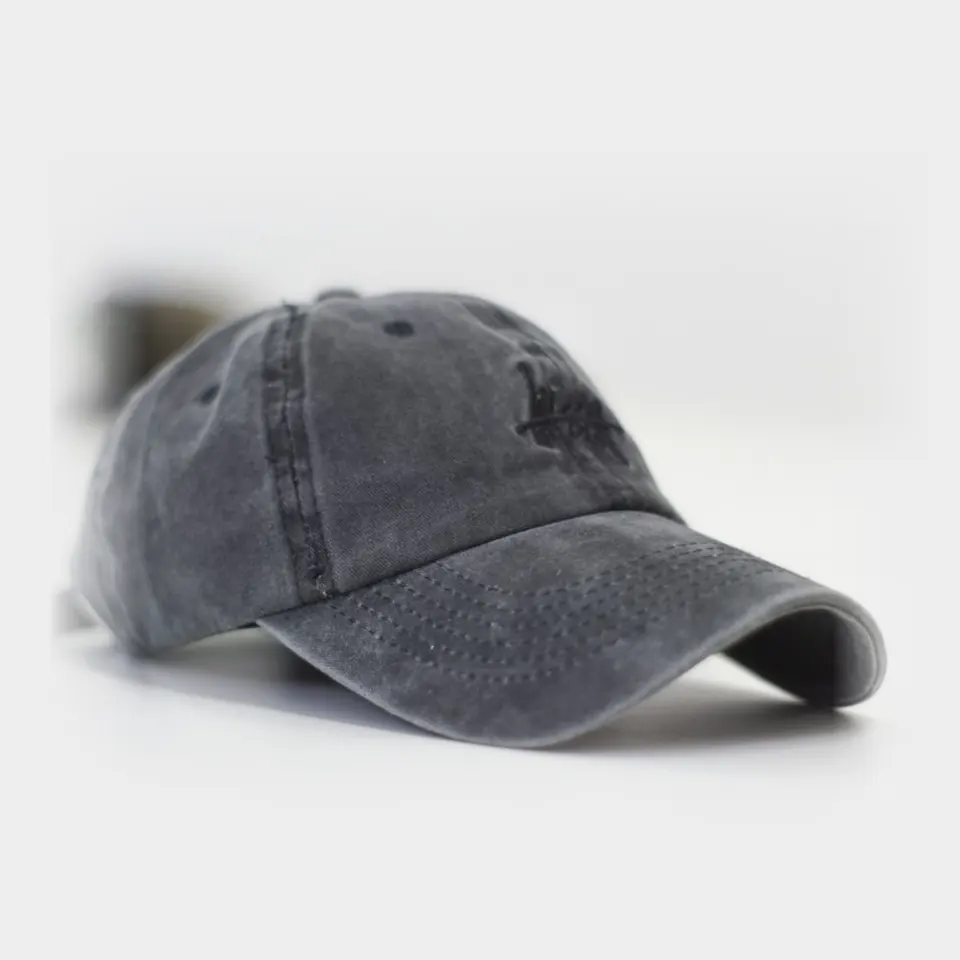
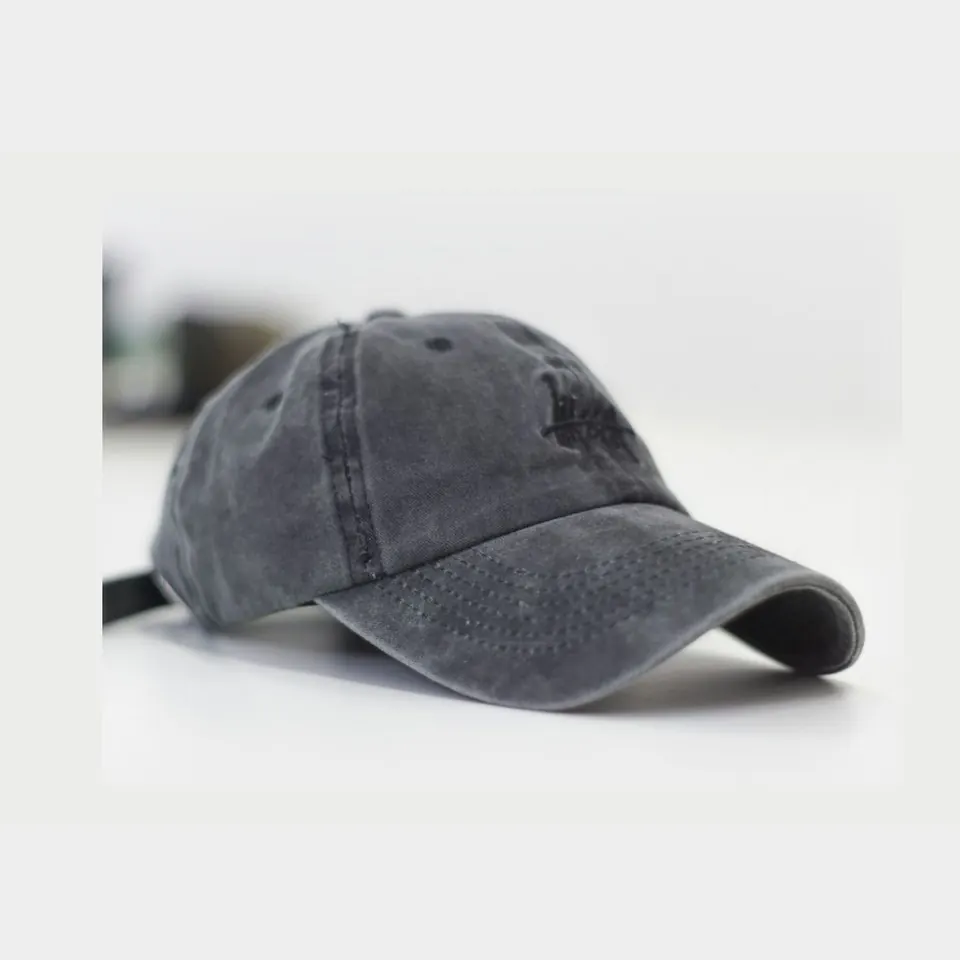
Landing round 11, business: cap and tote photos feathered on every side, card words change without overlapping, line under the heading on one line
Claude-Session: https://claude.ai/code/session_019eisRTo26DLMG3moy2JJ5E

Changed region(s): [[0.0625, 0.25, 0.9375, 0.8125], [0.5938, 0.5938, 0.625, 0.625], [0.5, 0.625, 0.5312, 0.6562]]

diff --git a/components/marketing/home/showcase-mocks/business-mocks.tsx b/components/marketing/home/showcase-mocks/business-mocks.tsx
@@ -176,8 +176,8 @@ export const PHYSICAL_STEP_S = 2.8
 */
 export const PHYSICAL_PRODUCTS = [
   { id: "tee", pic: "bz-tee", ground: "#efedec", name: "Midnight Studio Tee", sub: "Heavyweight cotton, black", price: "$32", label: "Size", options: ["XS", "S", "M", "L", "XL"], pick: 2, ship: "Ships in 2 days" },
-  { id: "cap", pic: "bz-cap", ground: "#ededed", name: "Washed Studio Cap", sub: "Washed cotton twill, one size", price: "$28", label: "Colour", options: ["Charcoal", "Sand", "Black"], pick: 0, ship: "Ships in 2 days" },
-  { id: "tote", pic: "bz-tote", ground: "#bec5ca", name: "Market Tote", sub: "Heavy canvas, natural", price: "$24", label: "Size", options: ["Standard", "Large"], pick: 0, ship: "Ships in 3 days" },
+  { id: "cap", pic: "bz-cap", ground: "#ededec", name: "Washed Studio Cap", sub: "Washed cotton twill, one size", price: "$28", label: "Colour", options: ["Charcoal", "Sand", "Black"], pick: 0, ship: "Ships in 2 days" },
+  { id: "tote", pic: "bz-tote", ground: "#bec5cb", name: "Market Tote", sub: "Heavy canvas, natural", price: "$24", label: "Size", options: ["Standard", "Large"], pick: 0, ship: "Ships in 3 days" },
   { id: "print", pic: "bz-print", ground: "#e7e2da", name: "Field Study No. 4", sub: "Art print on cotton rag paper", price: "$40", label: "Size", options: ["A4", "A3", "A2"], pick: 1, ship: "Printed to order, ships in 4 days" },
 ] as const
 
@@ -502,6 +502,8 @@ const ps = (f: number) => `${+(f * 100).toFixed(2)}%`
 const P_FADE = 0.45
 /* A product under the next one stays drawn until that one is fully in, then goes (it cannot be seen): no two grounds ever show through each other. The last runs under the first, so it is the one that fades out. */
 const S_OUT = PHYSICAL_STEP_S + 0.02
+/* The card's words never overlap: one product's leave, then the next one's come in (each in about a quarter second). */
+const INFO_IN = 0.24
 const P_LOOP = `${P_CYCLE_S}s linear calc(var(--p) * ${PHYSICAL_STEP_S}s - ${P_CYCLE_S}s) infinite`
 const P_STEP = `${PHYSICAL_STEP_S}s linear infinite`
 const thumbAt = (n: number) => `transform:translate3d(calc(var(--tp) * ${n}),0,0)`
@@ -509,7 +511,7 @@ const PHYSICAL_FRAMES = `
 @keyframes bt-show{0%,${pp(S_OUT)}{opacity:1}${pp(S_OUT + 0.02)},${pp(P_CYCLE_S - P_FADE)}{opacity:0;animation-timing-function:ease}100%{opacity:1}}
 @keyframes bt-show-a{0%,${pp(S_OUT)}{opacity:1}${pp(S_OUT + 0.02)},${pp(P_CYCLE_S - P_FADE)}{opacity:0}${pp(P_CYCLE_S - P_FADE + 0.02)},100%{opacity:1}}
 @keyframes bt-show-z{0%,${pp(PHYSICAL_STEP_S - P_FADE)}{opacity:1;animation-timing-function:ease}${pp(PHYSICAL_STEP_S)},${pp(P_CYCLE_S - P_FADE)}{opacity:0;animation-timing-function:ease}100%{opacity:1}}
-@keyframes bt-info{0%,${pp(PHYSICAL_STEP_S - P_FADE)}{opacity:1;transform:none;animation-timing-function:ease}${pp(PHYSICAL_STEP_S - 0.05)}{opacity:0;transform:translate3d(0,-8u,0)}${pp(P_CYCLE_S - P_FADE)}{opacity:0;transform:translate3d(0,10u,0);animation-timing-function:${E}}100%{opacity:1;transform:none}}
+@keyframes bt-info{0%,${pp(PHYSICAL_STEP_S - P_FADE)}{opacity:1;transform:none;animation-timing-function:ease-in}${pp(PHYSICAL_STEP_S - INFO_IN)}{opacity:0;transform:translate3d(0,-8u,0)}${pp(P_CYCLE_S - INFO_IN)}{opacity:0;transform:translate3d(0,10u,0);animation-timing-function:${E}}100%{opacity:1;transform:none}}
 @keyframes bt-pic{0%,${pp(S_OUT + 0.02)}{transform:none}${pp(S_OUT + 0.04)},${pp(P_CYCLE_S - P_FADE)}{transform:translate3d(18u,0,0);animation-timing-function:${E}}100%{transform:none}}
 @keyframes bt-toast{0%,${pp(1.3)}{opacity:0;transform:translate3d(0,12u,0);animation-timing-function:${E}}${pp(1.75)},${pp(PHYSICAL_STEP_S - P_FADE)}{opacity:1;transform:none;animation-timing-function:ease}${pp(PHYSICAL_STEP_S - 0.1)},100%{opacity:0;transform:none}}
 @keyframes bt-thumb{${Array.from({ length: P_COUNT }, (_, n) => `${pp(n * PHYSICAL_STEP_S)},${pp((n + 1) * PHYSICAL_STEP_S - 0.5)}{${thumbAt(n)};animation-timing-function:${GLIDE}}`).join("")}100%{${thumbAt(0)}}}
@@ -704,7 +706,7 @@ export const BUSINESS_MOCK_CSS =
 .bs-com-logo{position:absolute;z-index:1;left:24u;top:22u;display:flex;align-items:center;gap:10u}
 .bs-com-logo svg{width:34u;height:34u}
 .bs-com-logo b{font-size:17u;font-weight:750;line-height:1;letter-spacing:-.03em}
-.bs-com-logo b i{margin:0 1u 0 3u;font-style:normal;color:#d9f969}
+.bs-com-logo b i{margin:0 4u;font-style:normal;color:#d9f969}
 .bs-com-word{position:absolute;z-index:1;left:24u;right:24u;bottom:22u;display:grid;gap:7u}
 .bs-com-word b{max-width:12em;font-size:31u;font-weight:750;line-height:1.02;letter-spacing:-.035em}
 .bs-com-word i{font-size:13.5u;font-style:normal;font-weight:500;color:#d9f969}

diff --git a/components/marketing/home/business-carousel.tsx b/components/marketing/home/business-carousel.tsx
@@ -276,7 +276,7 @@ const CSS = `
 /* Prefixed with the page root: the editorial rule "[data-landing-story] [data-story-section] > div" (1400px, the old gutter) is more specific than a class. */
 [data-landing-story] .biz>.biz-head,.biz-head{box-sizing:border-box;max-width:var(--home-max,2020px);margin:0 auto;padding:0 calc(var(--home-edge,clamp(20px,5.15vw,84px)) + var(--home-head-inset,14px))}
 .biz .biz-h{margin-inline:0;max-width:16ch;font-size:clamp(36px,5vw,72px)}
-.biz-sub{margin:clamp(8px,.9vw,14px) 0 0;max-width:46ch;font-size:clamp(16px,1.25vw,19px);line-height:1.45;letter-spacing:-.005em;color:#65616e}
+.biz-sub{margin:clamp(8px,.9vw,14px) 0 0;max-width:64ch;font-size:clamp(16px,1.25vw,19px);line-height:1.45;letter-spacing:-.005em;color:#65616e}
 [data-landing-story] .biz>.biz-body,.biz-body{box-sizing:border-box;display:grid;grid-template-columns:minmax(0,1fr);row-gap:clamp(8px,1.4vw,16px);max-width:var(--home-max,2020px);margin:clamp(20px,3vw,44px) auto 0;padding:0 var(--home-edge,clamp(20px,5.15vw,84px))}
 /* The words. A row here, an index from 1280px. The row reaches the screen's edges, so one wider than a small phone slides under the thumb. */
 .biz-tabs{display:flex;gap:clamp(18px,2.6vw,34px);margin:0 calc(var(--home-edge,20px) * -1);padding:0 calc(var(--home-edge,20px) + var(--home-head-inset,14px));overflow-x:auto;overscroll-behavior-x:contain;scrollbar-width:none}
